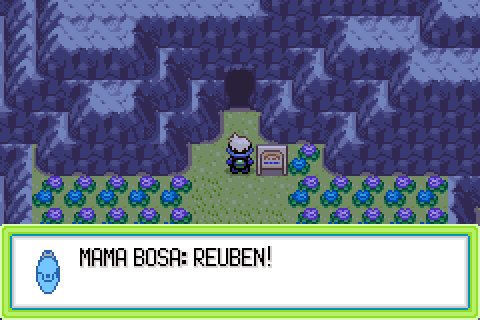
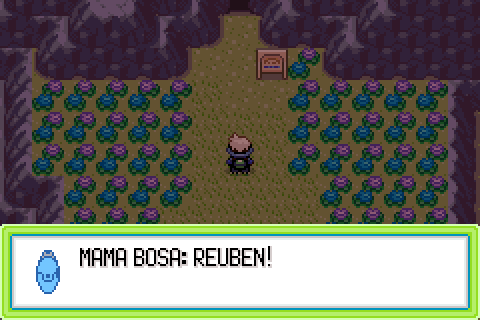
Mama Bosa calls out on the flower field, not in the cave neck
The single trigger tile at the VICTORY ROAD neck worked but read as a
tripwire: you got the call wedged in a one-tile corridor with the cave
mouth behind you.

It is now the whole row y=46, x=12..24, five steps short of the cave, so
the call lands out on the open flower field with the mouth and its sign in
view ahead. Flood filling proves the row is a complete cut - nothing north
of it is reachable without crossing it - and VAR_TEMP_2 keeps the thirteen
tiles from re-arming as you walk along them.

Re-verified headless on all four routes: in from the city, out of VICTORY
ROAD 1F walked end to end, in past the Pokemon Center, and a no-badge build
that walks straight through. Report and screenshots updated.

diff --git a/rom_hack_docs/mama_bosa_league_call.md b/rom_hack_docs/mama_bosa_league_call.md
@@ -12,6 +12,7 @@ headless in mGBA.
   - [The old placement, reproduced](#the-old-placement-reproduced)
   - [Walking in from the city](#walking-in-from-the-city)
   - [Coming back out of Victory Road](#coming-back-out-of-victory-road)
+  - [Arriving from the Pokémon Center](#arriving-from-the-pokémon-center)
   - [Second pass, and the badge gate](#second-pass-and-the-badge-gate)
 - [How the headless run was driven](#how-the-headless-run-was-driven)
 
@@ -39,30 +40,51 @@ VICTORY ROAD to get back.
 
 ## The fix
 
-The trigger moves to **(18, 43)**, in the neck below the *lower* VICTORY ROAD entrance.
-
-(18, 42) is the obvious candidate and is a genuine one-block chokepoint, but it is the
-landing tile of the lower cave warp, so it carries exactly the same latent weakness as the
-old tile. (18, 43) is one step further out: no warp lands there, and it is still
-unavoidable, because (18, 42) connects only to the cave at 41 and to 43, and 19,43 is the
-VICTORY ROAD sign.
+The trigger becomes a **row of 13 coord events at y = 46, x = 12..24** — the full width of
+the flower field on the approach to the lower VICTORY ROAD entrance, five steps short of the
+cave mouth.
 
 ```
 y    x=15 16 17 18 19 20 21 22
 41      #  #  #  .  #  #  #  #     <- warp 2, the cave mouth
 42      #  #  #  .  #  #  #  #     <- warp 2 lands you here
-43      #  #  .  .  #  .  #  #     <- the trigger
+43      #  #  .  .  S  .  #  #     <- S is the VICTORY ROAD sign
 44      .  .  .  .  .  .  .  .
+45      .  .  .  .  .  .  .  .
+46      T  T  T  T  T  T  T  T     <- the trigger row, x=12..24
 ```
 
-That tile also fires in both directions, which the old one could never do: walking in from
-the city, *and* walking back out of VICTORY ROAD (you land on 42, then step south onto 43).
-So a save that has already been through VICTORY ROAD still gets the call.
+A row rather than a single tile for two reasons. The first is correctness: the tile at the
+mouth can never be a trigger, because (18, 42) is where the cave warp *puts* you, and a coord
+event only runs when the player steps onto it under their own power. Any design that depends
+on one tile at a chokepoint is one map edit away from the original bug. The second is feel —
+the user's words were that a single tile at the neck "doesn't feel the most natural". Out on
+the open field you get the call with the cave mouth and its sign in shot, walking toward
+them, rather than wedged in a one-tile corridor.
+
+Being a row does not weaken the guarantee, because the row is a complete graph cut. Flood
+filling the map from the south edge with the row removed reaches nothing north of it:
+
+| row | trigger tiles | tiles north of the row still reachable from the south |
+|---|---|---|
+| y=43 | 3 (x 17..20) | 0 |
+| y=44 | 13 (x 12..24) | 0 |
+| **y=46** | **13 (x 12..24)** | **0** |
+| y=49 | 15 (x 13..29) | 0 |
+
+Every row from 43 to 49 is a valid cut, so y=46 was chosen on framing alone. All 13 tiles are
+elevation 5 and passable (`MB_NORMAL` or `MB_SHORT_GRASS`), and no warp on the map lands on
+row 46, so every tile in it is reachable only by stepping.
+
+Firing on any of 13 tiles needs a guard so the row does not re-arm as you walk along it. The
+coord events are conditioned on `VAR_TEMP_2 == 0` and the script sets it to 1 on its first
+line, so the row fires at most once per visit to the map; `VAR_TEMP_*` clears on every map
+load, and `FLAG_MAMA_BOSA_LEAGUE_CALL` still holds it to once per save.
 
 ![Old and new trigger tiles](mama_bosa_league_call/00_trigger_move.png)
 
-The script is untouched — still gated on `FLAG_BADGE08_GET` as well as its own
-`FLAG_MAMA_BOSA_LEAGUE_CALL`, still once per save.
+The script body is untouched — still gated on `FLAG_BADGE08_GET` as well as its own
+`FLAG_MAMA_BOSA_LEAGUE_CALL`.
 
 ## Verification
 
@@ -84,7 +106,8 @@ Walking on across the plateau toward the league, still nothing:
 
 ### Walking in from the city
 
-New placement. Walking north from (18, 47), the call fires on the step onto (18, 43):
+New placement. Walking north from (18, 50), the call fires on the step onto (18, 46), with
+the cave mouth and the VICTORY ROAD sign in view ahead:
 
 ![The call fires](mama_bosa_league_call/03_inbound_call_fires.png)
 ![Greeting](mama_bosa_league_call/04_greeting.png)
@@ -104,31 +127,37 @@ exactly like a freeze and cost time during this investigation.
 ### Coming back out of Victory Road
 
 This one is walked end to end rather than warped into place, because "does the cave put you
-straight onto the trigger tile?" is precisely the question the old placement got wrong, and
-a debug warp is not proof about a real one.
+straight onto the trigger tile?" is precisely the question the old placement got wrong, and a
+debug warp is not proof about a real one.
 
 The player is placed inside VICTORY ROAD 1F on its warp 0 at (15, 40) — the real exit, whose
-`dest_warp_id` is EVER GRANDE CITY's warp 2 — and walks out under their own power. They land
-on **(18, 42)**, map banner still up, no call:
+`dest_warp_id` is EVER GRANDE CITY's warp 2 — and walks out under their own power, landing on
+(18, 42). Four steps south, the row fires:
 
-![Exiting Victory Road lands you on 42](mama_bosa_league_call/09a_vr_exit_lands_on_42.png)
+![The call fires on the way out of Victory Road](mama_bosa_league_call/09a_out_of_victory_road.png)
 
-One step south onto (18, 43) fires it:
+The exit tile and the trigger row are four rows apart, so no warp landing can swallow the
+trigger the way it did the old one.
 
-![The call fires on the way out](mama_bosa_league_call/09b_outbound_call_fires.png)
+### Arriving from the Pokémon Center
 
-So the warp exit and the trigger are on different tiles, which is the whole point of
-choosing 43 over 42.
+The other way onto the field. Walking north from (24, 48), by the Pokémon Center, the call
+fires on (24, 46) — the east end of the row, twelve tiles from where the middle approach
+fires it:
+
+![The call fires at the east end of the row](mama_bosa_league_call/09b_east_edge_from_pokemon_center.png)
 
 ### Second pass, and the badge gate
 
-Walking off the tile and back on after the call, position confirmed at (18, 43). No call —
-`FLAG_MAMA_BOSA_LEAGUE_CALL` holds:
+After the call, walking west along the row from (18, 46) to (12, 46) crosses six more trigger
+tiles, then turns north to (12, 44). Silent throughout — the `VAR_TEMP_2` guard holds, so the
+row does not stutter:
 
 ![Second pass is silent](mama_bosa_league_call/10_second_pass_silent.png)
 
 The same walk on a build that does not set `FLAG_BADGE08_GET`. The player is not stopped at
-all; they carry straight on through 43, 42 and 41 and into VICTORY ROAD 1F:
+all; they cross the row, the neck at 43/42 and the cave mouth, ending up at (15, 30) inside
+VICTORY ROAD 1F:
 
 ![No badge, walks straight through](mama_bosa_league_call/11_no_badge_walks_through.png)
 
